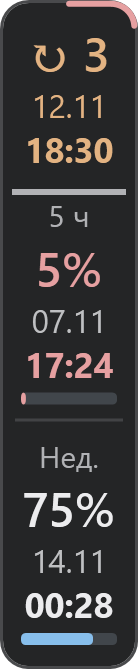
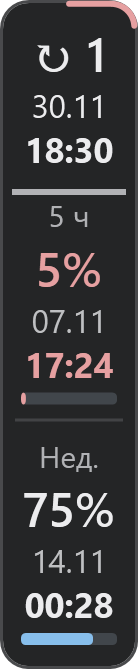
Show one unexpired reset in the normal white tone
Use a single reset expiring on 30 November in the full reset example so the documentation also demonstrates the normal state. Keep the remaining warning examples and varied quota percentages unchanged.

Validation: documentation previews regenerated successfully; the changed image was inspected for a white reset count of 1 and matching date and time.

diff --git a/tools/render-previews.cs b/tools/render-previews.cs
@@ -60,7 +60,8 @@ class DocumentationPreviews {
         var window=new OverlayWindow(Path.Combine(own,"state.json"),new ThemeResolver(Path.Combine(own,"app.toml"),delegate{return false;}),delegate{return false;},delegate{return null;});
         try{
           Call(window,"StopTracking");
-          var resetData=new Dictionary<string,object>{{"availableCount",3},{"date","12.11.2026"},{"time","18:30"},{"daysRemaining",5},{"tone","warning"},{"stale",false}};
+          bool normalReset=key=="resets-full-both-dark";
+          var resetData=new Dictionary<string,object>{{"availableCount",normalReset?1:3},{"date",normalReset?"30.11.2026":"12.11.2026"},{"time","18:30"},{"daysRemaining",normalReset?23:5},{"tone",normalReset?"normal":"warning"},{"stale",false}};
           var creditData=new Dictionary<string,object>{{"balance","250"},{"display","250"},{"unlimited",false},{"hasCredits",true},{"tone","normal"},{"stale",false}};
           int shortRemaining=key=="resets-full-both-dark"?5:key=="credits-full-both-dark"?0:key=="both-full-both-dark"?100:29;
           Call(window,"Apply",new Dictionary<string,object>{{"rows",new object[]{Row("5 ч",shortRemaining,"07.11","17:24"),Row("Нед.",75,"14.11","00:28")}},{"resets",resetData},{"credits",creditData}});Call(window,"SelectMode",mode);Call(window,"SelectFullProgress",indicator);
